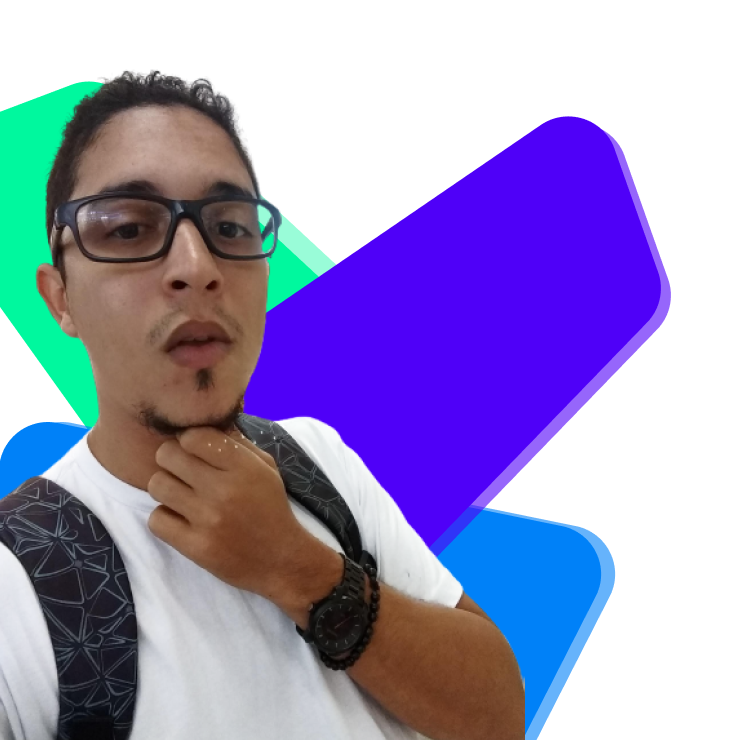
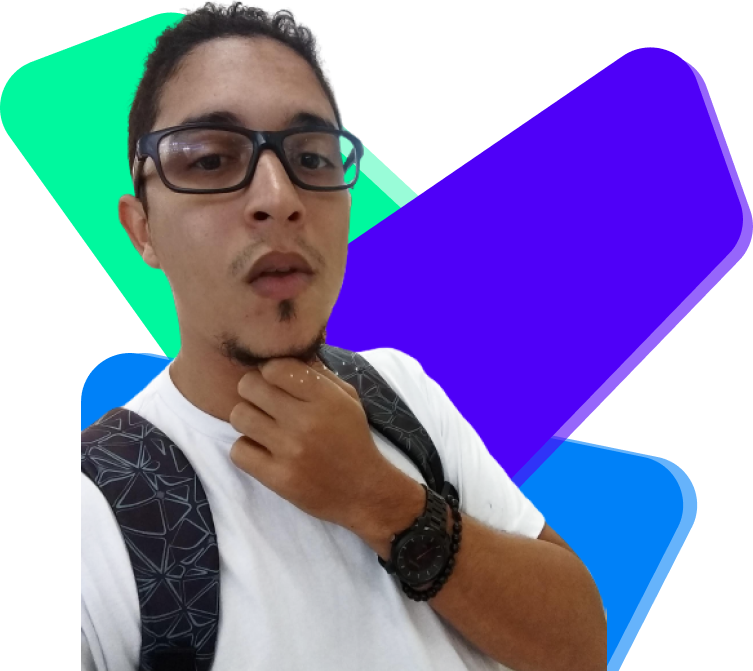
Atualização da seção sobre

diff --git a/index.html b/index.html
@@ -40,8 +40,8 @@
             <h1>Olá!  Eu sou Danilo Serafim,</h1>
             <div id="subtitle">
                 <span id="full"><span>Fullstack</span> 
-                    <img src="./assets/linkedin.png" alt="">
-                    <img src="./assets/github.png" alt="">
+                    <a href="https://www.linkedin.com/in/danilobserafim/" target="_blank" rel="noopener noreferrer"><img src="./assets/linkedin.png" alt=""></a>
+                    <a href="https://github.com/danilobserafim" target="_blank" rel="noopener noreferrer"><img src="./assets/github.png" alt=""></a>
                 </span>
                 <span id="stack">Developer</span>
             </div>

diff --git a/style.css b/style.css
@@ -40,10 +40,11 @@ body{
     padding: 64px 0;
     align-items: flex-end;
 }
-#sobre img{
-    width: 700px;
+#sobre > img{
+    width: 752.96px;
     height: 671px;
-    margin-right: -200px;
+    border-radius:0 0 250px  400px;
+    transform: rotate(8deg);
 }
 #sobre article{
     display: flex;
